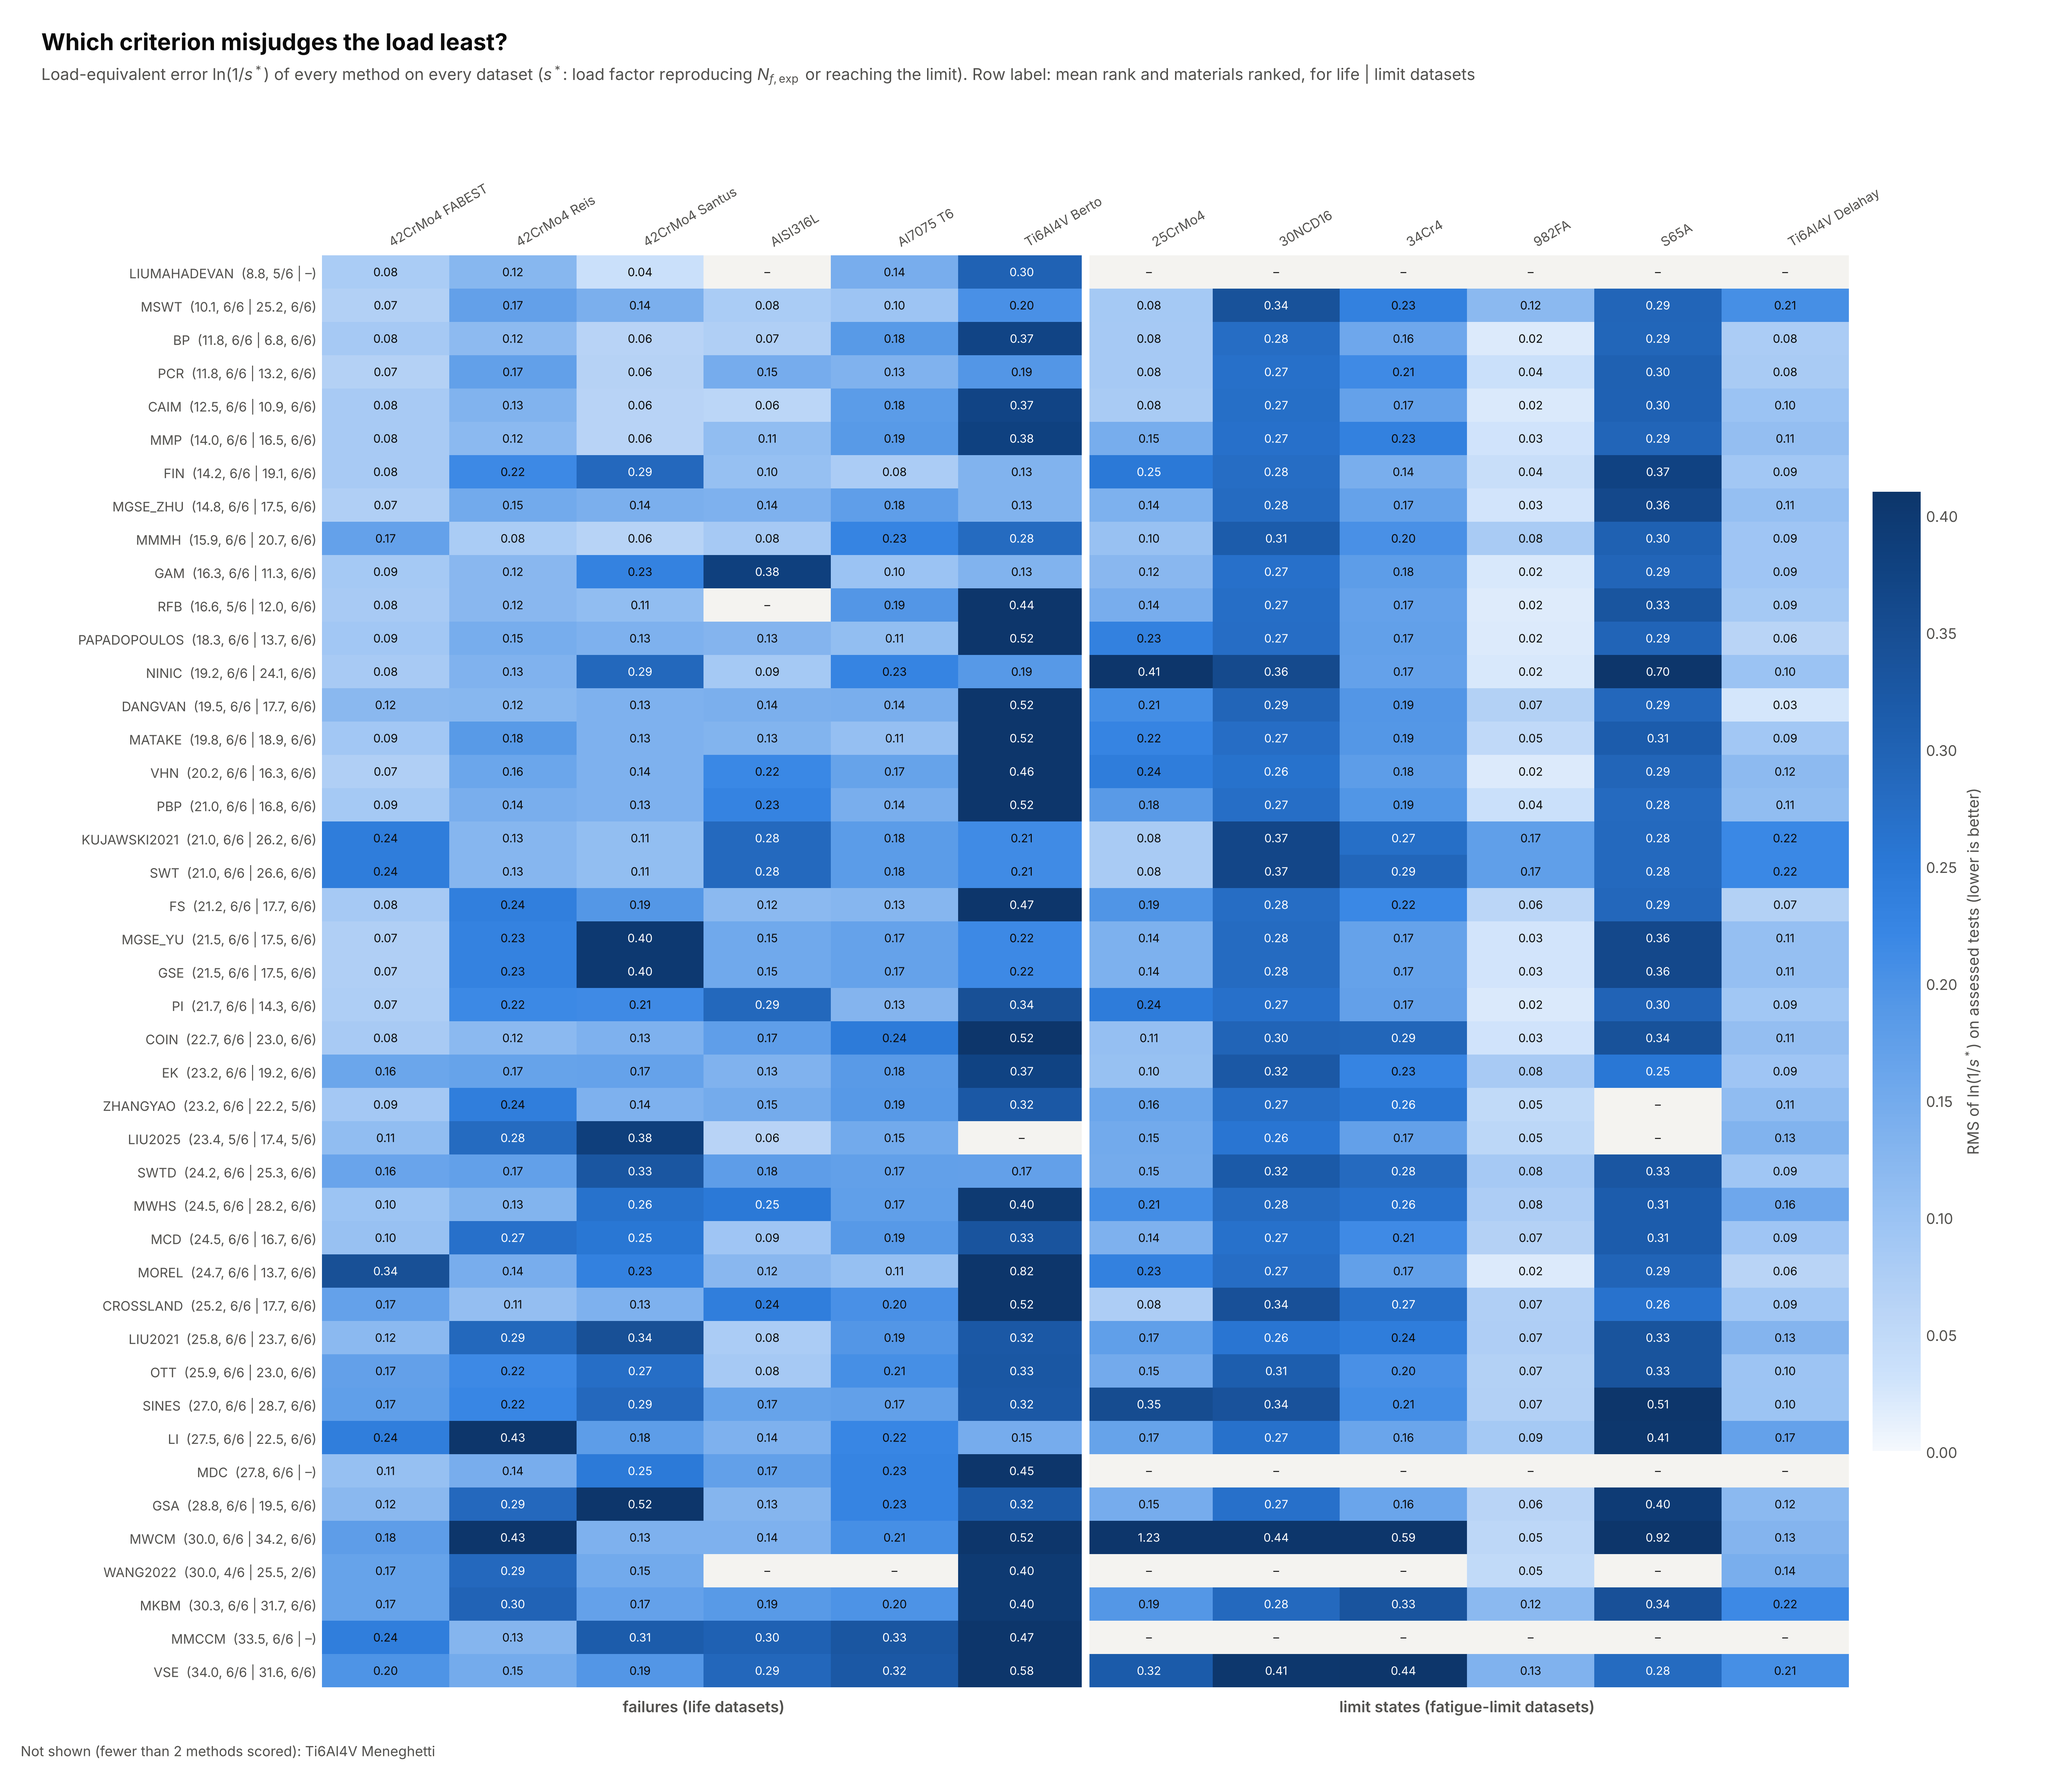
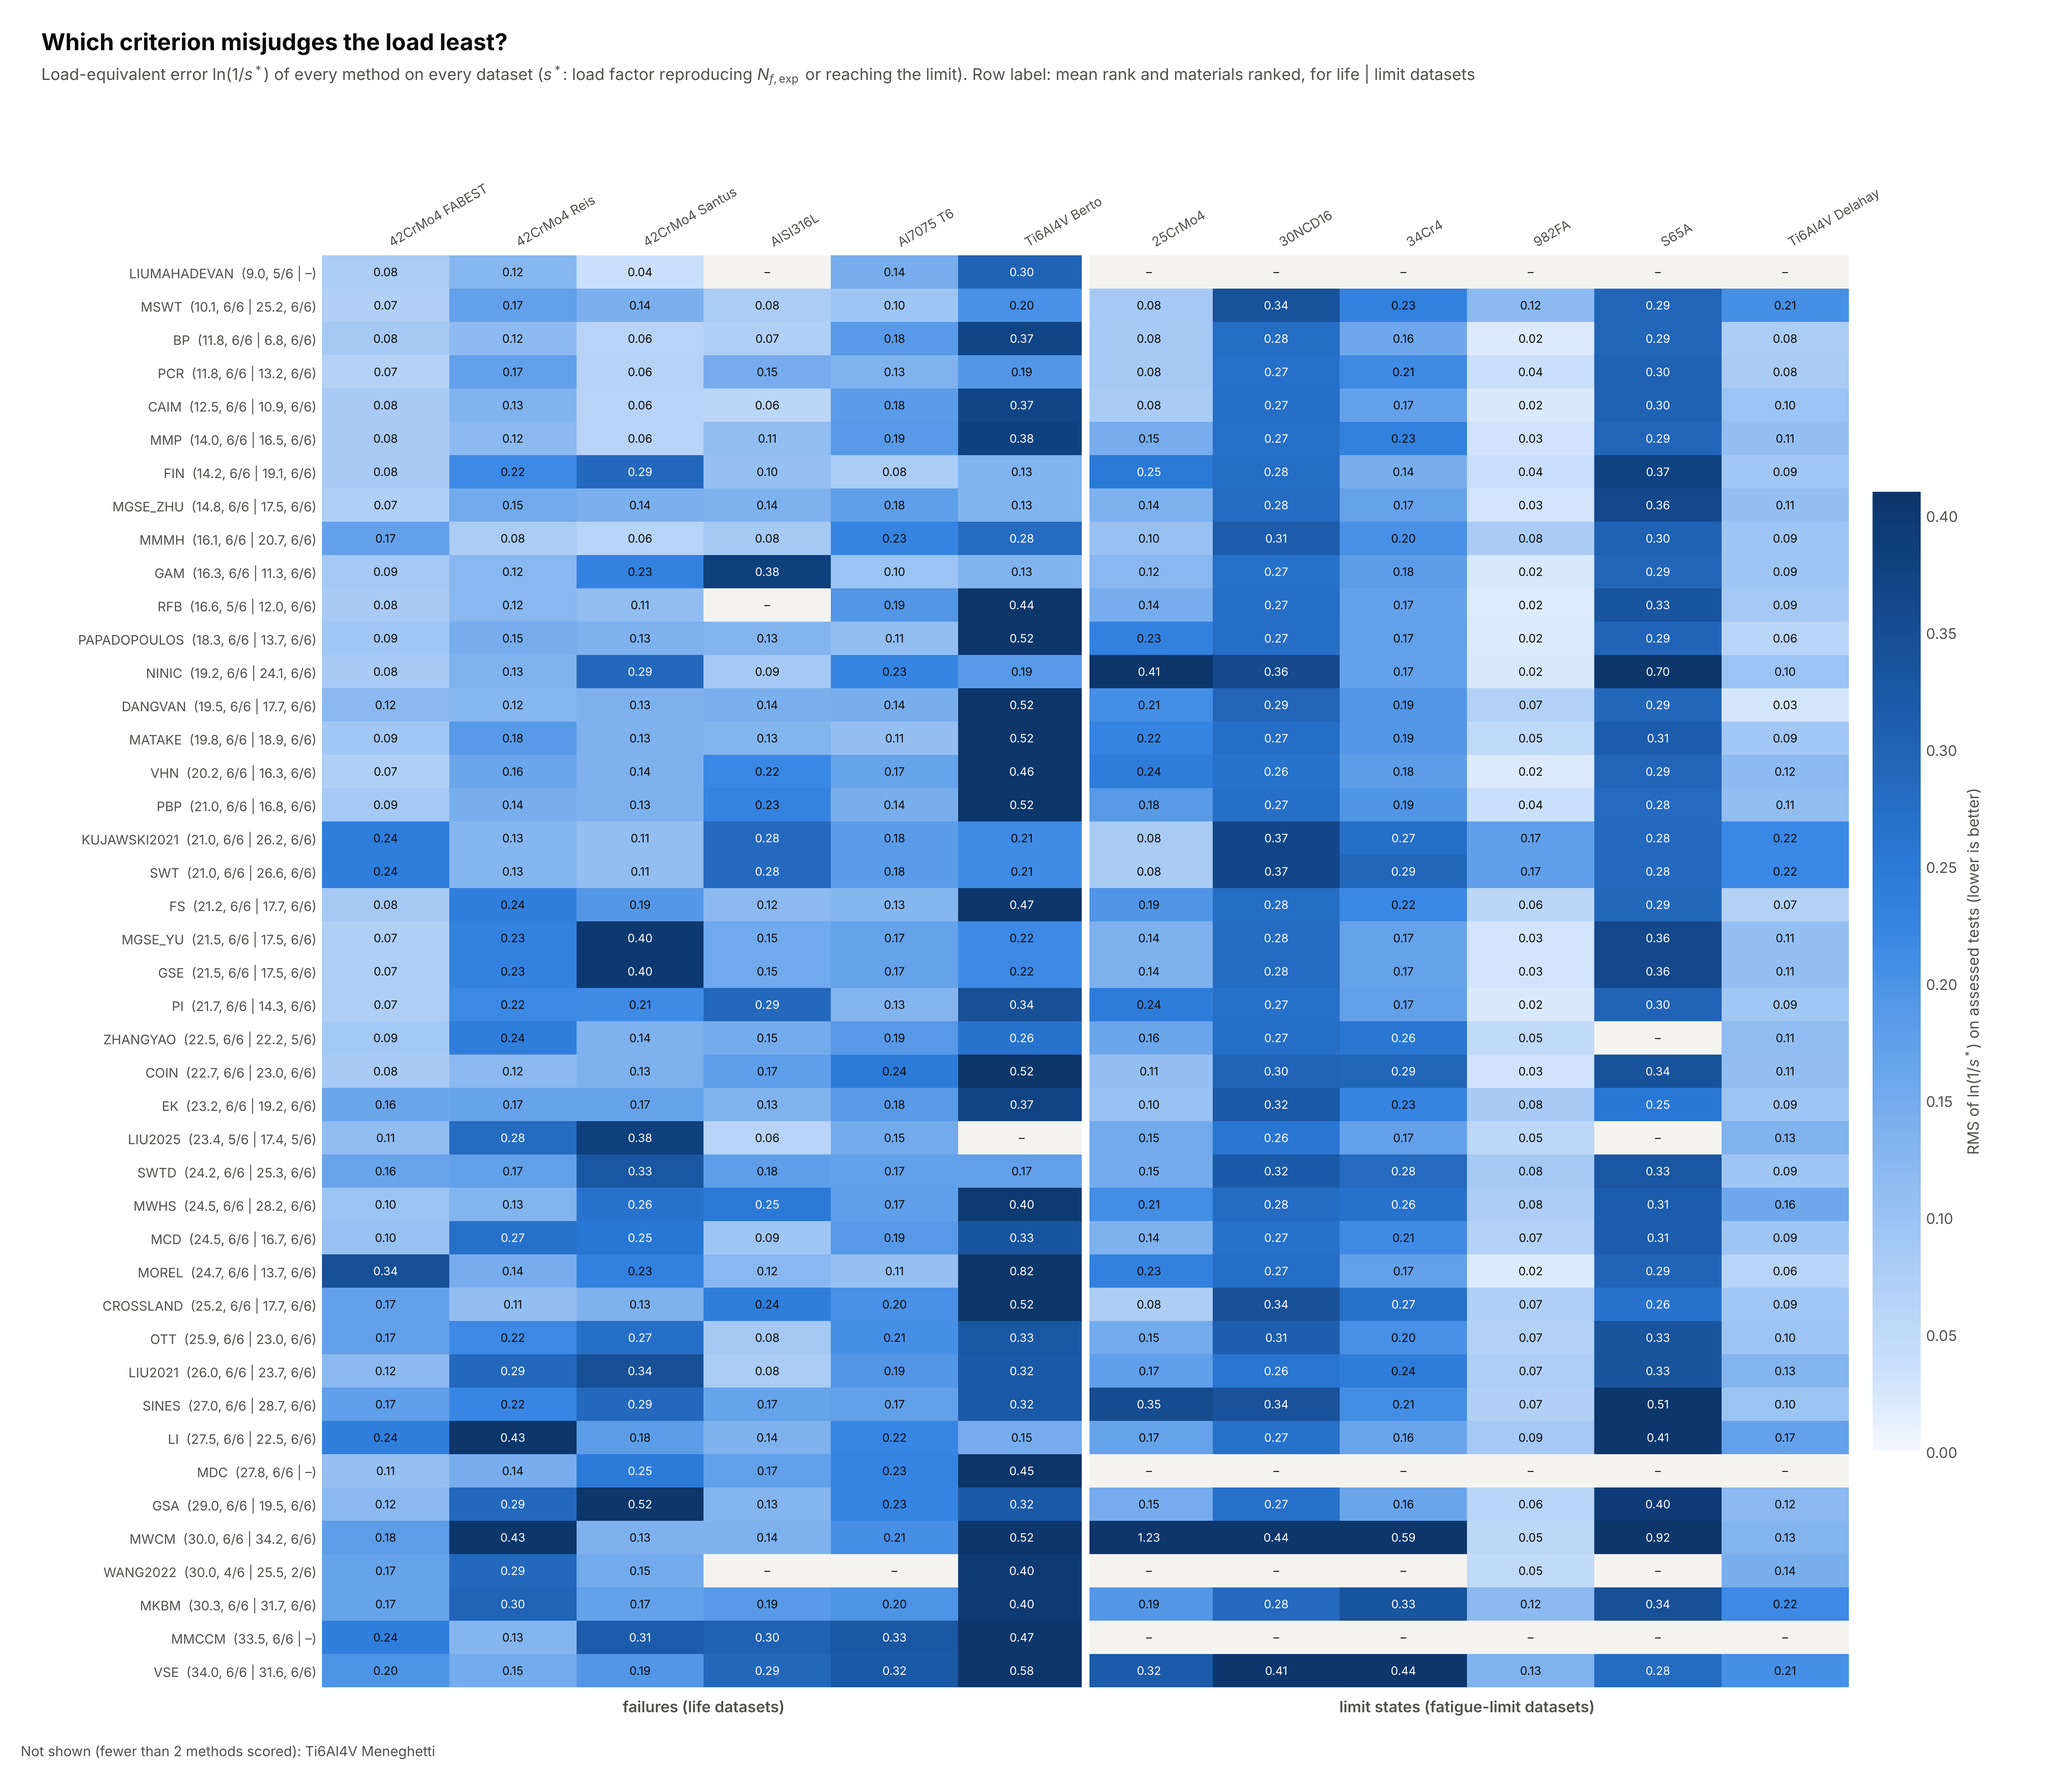
Load error (#78): CHANGELOG, checkpoint, ranking figure
Claude-Session: https://claude.ai/code/session_01KzHgFiC4WA789boM7p2Bhj

diff --git a/CHANGELOG.md b/CHANGELOG.md
@@ -6,6 +6,20 @@ Finding IDs (F, U, P, N) refer to the audit ledgers kept with the carry-forward 
 
 ## [Unreleased] (carry-forward of October 2026)
 
+### Load error: shared scaled evaluations, no domain edge taken as a root (#78)
+
+- `cli/run.py::load_errors` evaluates each scaled load once per case and reuses it across the
+  variants and the master-curve and native-life searches (`_CachedModel`, keyed on the input
+  tensors; skip errors are cached too). On 42CrMo4_Reis: SWT 4.2 s -> 1.1 s, FS 11.0 s -> 6.5 s.
+- `eval/endurance.py::load_factor` returns NaN when the bisection closes on a sign change against
+  +inf, i.e. on the edge of the criterion's domain (`scaled_damage` maps a LoadingScopeError to
+  +inf): DP never reaches the target there. A finite jump across the target (a plane switch) is
+  still a crossing and is kept. The native-life search treats a NaN life as a failed search.
+- Numbers: `IMPLEMENTATION_REVISION` 2026-11-12. Only ZHANGYAO on Ti6Al4V_Berto changes: 9
+  torsion tests (Torsion_Plain_12, 18-25) had a finite `Error_load` at the scope edge of the
+  model (DP(s*) = 0.839 against the target 1.527 for Plain_18) and are now NaN. All other run and
+  fatigue-index outputs are unchanged; ranking and batch comparison regenerated.
+
 ### Test: cross-batch transfer with a native-life model (#80)
 
 - `test_transfer_native_life_model`: MOREL in the 42CrMo4_Santus -> 42CrMo4_Reis transfer keeps

diff --git a/docs/audit-checkpoint.md b/docs/audit-checkpoint.md
@@ -1,5 +1,17 @@
 # Development continuation checkpoint
 
+## Issue #78, load-error evaluations (12 November 2026)
+
+- Branch `fix/load-error-evaluations`: cached scaled evaluations in `run.load_errors`; the load
+  factor rejects only a sign change against +inf (scope edge), keeps finite jumps; NaN native life
+  fails the search. `IMPLEMENTATION_REVISION` 2026-11-12.
+- Evidence: run CSVs of every model and life workbook against main differ only in
+  ZHANGYAO_Ti6Al4V_Berto (9 scope-edge values -> NaN); fatigue-index CSVs 0 of 311 differ.
+  A first, stricter check (|DP(s*) - target| <= 1e-6 target) also dropped 3 finite plane-switch
+  crossings (NINIC 25CrMo4, MMP 34Cr4) and was replaced.
+- Open PRs: #97 (#73 snapshot pipeline stage), #98 (#77 design-test selector), this one.
+- Next action: CI and maintainer merge decisions.
+
 ## Batch names, decision d112 (12 November 2026)
 
 - Branch `data/batch-names`: `42CrMo4_QT` -> `42CrMo4_Santus` (file, `Calibrations/42CrMo4_Santus/`,
